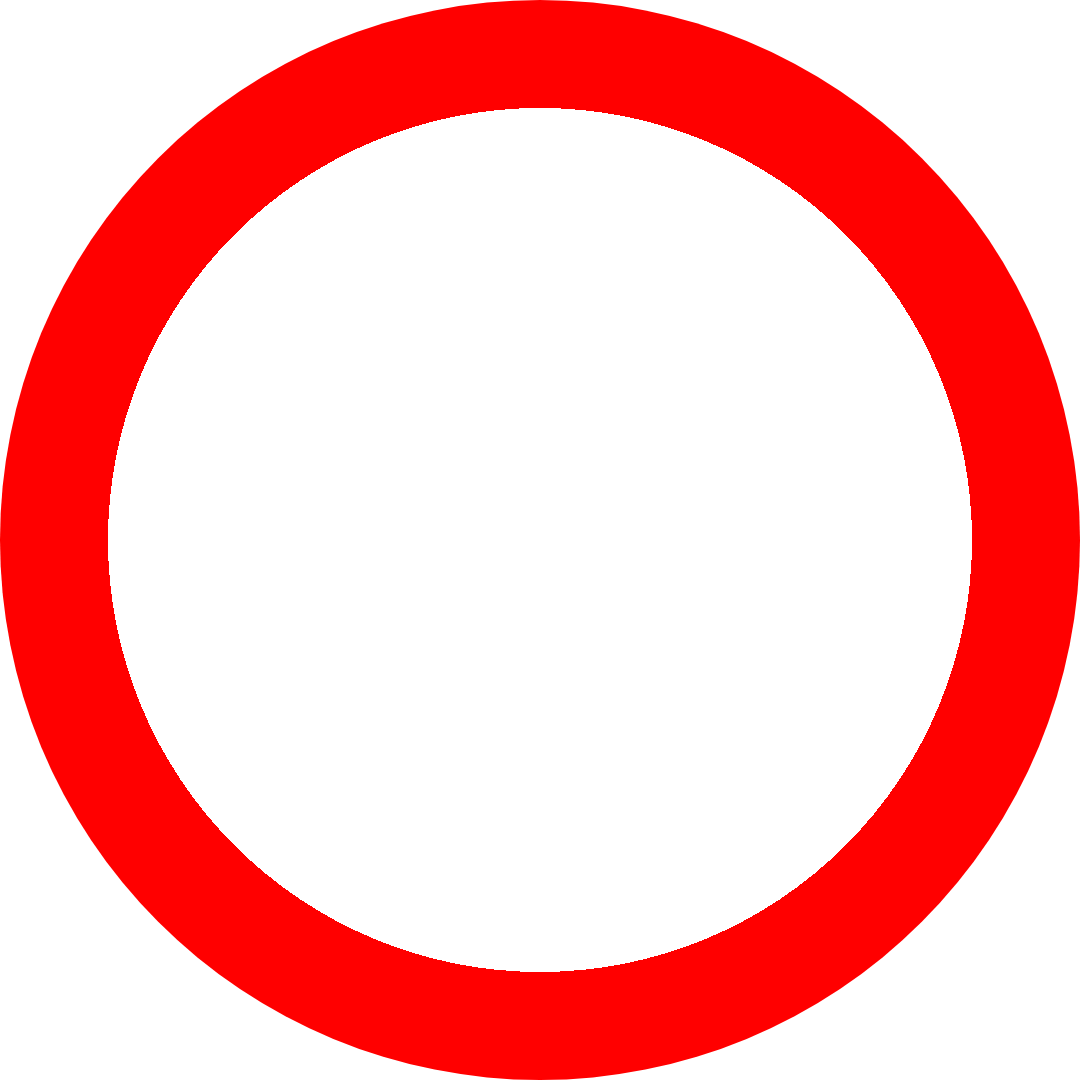
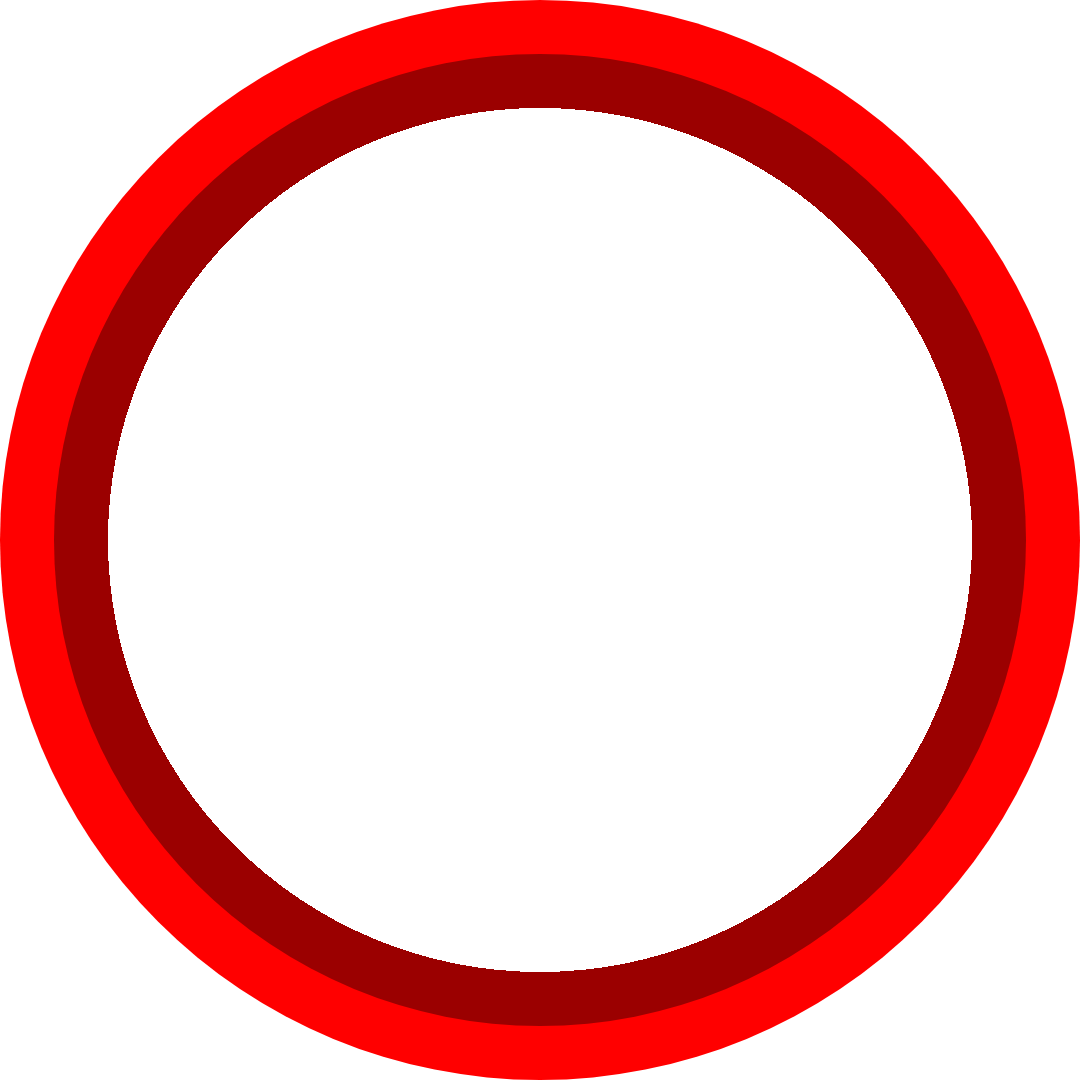
Add overlay ratio property to chart view

Changed region(s): [[0.0306, 0.0306, 0.9472, 0.9472]]

diff --git a/piechart/src/main/kotlin/ir/mahozad/android/compose/PieChartView.kt b/piechart/src/main/kotlin/ir/mahozad/android/compose/PieChartView.kt
@@ -7,6 +7,7 @@ import androidx.compose.runtime.mutableStateOf
 import androidx.compose.ui.platform.AbstractComposeView
 import androidx.core.content.withStyledAttributes
 import ir.mahozad.android.DEFAULT_HOLE_RATIO
+import ir.mahozad.android.DEFAULT_OVERLAY_RATIO
 import ir.mahozad.android.R
 
 /**
@@ -22,6 +23,10 @@ class PieChartView @JvmOverloads constructor(
     var holeRatioResource by FractionResource(::holeRatio)
     var holeRatio by Property(holeRatioState, { it.coerceIn(0f, 1f) })
 
+    private val overlayRatioState = mutableStateOf(DEFAULT_OVERLAY_RATIO)
+    var overlayRatioResource by FractionResource(::overlayRatio)
+    var overlayRatio by Property(overlayRatioState, { it.coerceIn(0f, 1f) })
+
     /**
      * Attributes are a powerful way of controlling the behavior and appearance of views,
      * but they can only be read when the view is initialized. To provide dynamic behavior,
@@ -36,6 +41,7 @@ class PieChartView @JvmOverloads constructor(
         // See https://stackoverflow.com/a/68803044
         context.withStyledAttributes(attrs, R.styleable.PieChart) {
             holeRatio = getFloat(R.styleable.PieChart_holeRatio, DEFAULT_HOLE_RATIO)
+            overlayRatio = getFloat(R.styleable.PieChart_overlayRatio, DEFAULT_OVERLAY_RATIO)
         }
     }
 
@@ -47,7 +53,7 @@ class PieChartView @JvmOverloads constructor(
                 .width(Dp(width.toFloat()))
                 .padding(),*/
             holeRatio = holeRatioState.value,
-            overlayRatio = 0.65f
+            overlayRatio = overlayRatioState.value
         )
     }
 }
